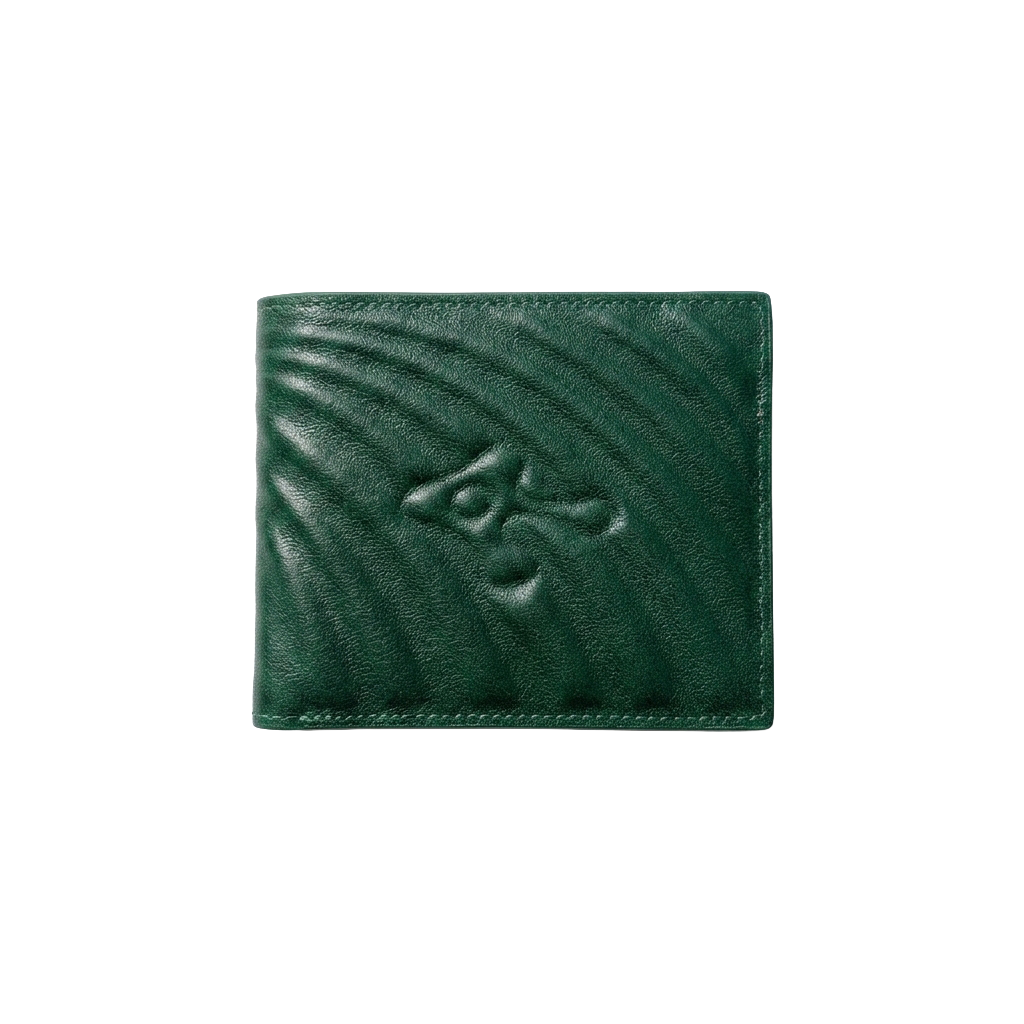
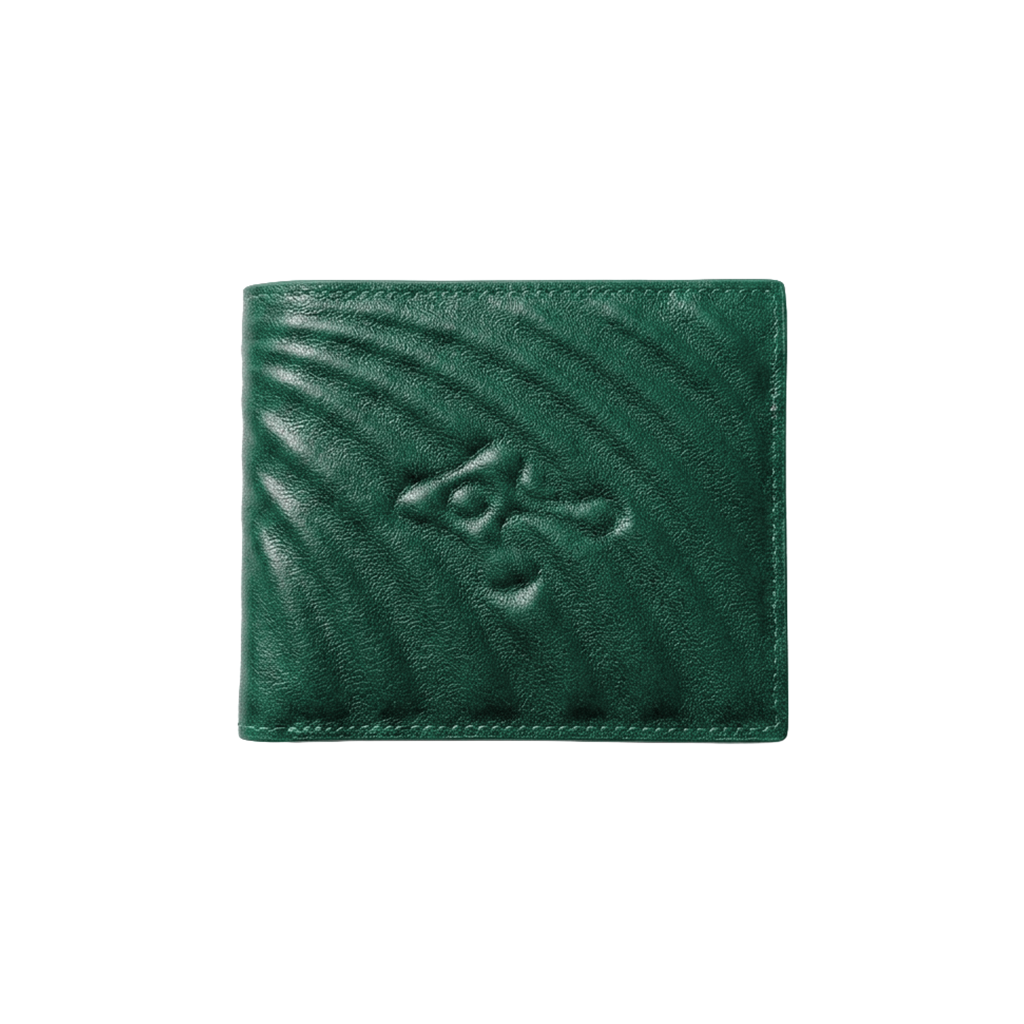
Revert homepage to Ark Wallet product page at $64; update wallet images
- Replace pre-launch countdown with image-left/text-right product layout
- Rename to Ark Wallet, price $64 wired to the $64 Stripe payment link
- Swap in new closed/open wallet photos (wallet-sand.png / wallet-open.png)
- Update product description copy

Changed region(s): [[0.2188, 0.25, 0.7812, 0.75]]

diff --git a/index.html b/index.html
@@ -4,44 +4,44 @@
 <meta charset="UTF-8">
 <meta name="viewport" content="width=device-width, initial-scale=1">
 <title>RAVISAUCE — Ark Wallet</title>
-<meta name="description" content="Emerald Green Bifold Wallet · Embossed Ark Shell Pattern · Top Grain Cowhide Leather">
 <link rel="icon" href="ravi-logo.png">
 <style>
 :root{
   --paper:#FFFFFF;
   --ink:#000000;
   --ink-2:#5a5a5a;
-  --ink-3:#9a9a9a;
   --emerald:#0F5C45;
   --rule:rgba(0,0,0,.18);
 }
 *{margin:0;padding:0;box-sizing:border-box}
 html,body{height:100%;background:var(--paper);color:var(--ink);font-family:'Helvetica Neue','Helvetica','Arial',sans-serif;-webkit-font-smoothing:antialiased;overflow:hidden;letter-spacing:-.005em}
 
-/* frame — scales with viewport width on wide displays */
-.frame{position:relative;height:100vh;height:100dvh;display:grid;grid-template-rows:auto 1fr;padding:clamp(18px,2vw,44px) clamp(28px,3.2vw,80px) clamp(20px,2.4vw,52px);gap:clamp(8px,1.4vw,28px)}
+/* frame */
+.frame{position:relative;height:100vh;height:100dvh;display:grid;grid-template-rows:auto 1fr;padding:clamp(18px,2.6vh,28px) clamp(28px,4vw,56px) clamp(20px,3vh,32px);gap:clamp(8px,1.6vh,20px)}
 
 /* top */
 .top{display:flex;justify-content:flex-end;align-items:center;gap:clamp(20px,2vw,40px)}
-.top .help{font-size:clamp(11px,0.78vw,17px);letter-spacing:.16em;text-transform:uppercase;color:var(--ink);text-decoration:none;font-weight:500;position:relative;padding:4px 0;transition:color .25s}
+.top .help{font-size:11px;letter-spacing:.16em;text-transform:uppercase;color:var(--ink);text-decoration:none;font-weight:500;position:relative;padding:4px 0;transition:color .25s}
 .top .help::after{content:'';position:absolute;left:0;bottom:0;height:1px;width:0;background:var(--emerald);transition:width .45s cubic-bezier(.65,0,.35,1)}
 .top .help:hover{color:var(--emerald)}
 .top .help:hover::after{width:100%}
 
-/* hero — centered single column */
-.hero{display:flex;flex-direction:column;align-items:center;justify-content:center;gap:clamp(24px,3.6vw,84px);min-height:0;overflow:visible;text-align:center}
+/* hero */
+.hero{display:grid;grid-template-columns:1.15fr .85fr;align-items:center;gap:clamp(28px,5vw,72px);min-height:0;overflow:hidden}
 
-/* wallet */
-.stage{position:relative;display:flex;align-items:center;justify-content:center;min-height:0;overflow:visible}
-.wallet-wrap{position:relative;display:block;line-height:0;cursor:pointer}
-.wallet{width:auto;max-width:min(100%,1000px);max-height:min(72vh,55vw);height:auto;display:block;user-select:none;-webkit-user-drag:none}
+.stage{position:relative;display:flex;align-items:center;justify-content:center;min-height:0;height:100%;overflow:visible}
+.wallet-wrap{position:relative;display:block;line-height:0;max-width:100%;max-height:100%;cursor:pointer}
+.wallet{width:auto;max-width:100%;max-height:min(94vh,55vw);height:auto;display:block;
+  user-select:none;-webkit-user-drag:none;
+}
+.wallet-wrap{cursor:pointer}
 .wallet-base{position:relative;z-index:1}
 .wallet-hover{position:absolute;inset:0;width:100%;height:100%;object-fit:contain;visibility:hidden;z-index:2;pointer-events:none}
 .wallet-wrap.flipped .wallet-base{visibility:hidden}
 .wallet-wrap.flipped .wallet-hover{visibility:visible}
-.wallet-hint{position:absolute;left:50%;bottom:6%;transform:translateX(-50%);z-index:3;pointer-events:none;
-  font-size:clamp(10.5px,0.72vw,15px);letter-spacing:.22em;text-transform:uppercase;font-weight:500;
-  color:var(--paper);background:rgba(0,0,0,.78);padding:clamp(9px,0.65vw,14px) clamp(16px,1.1vw,24px);border-radius:999px;
+.wallet-hint{position:absolute;left:50%;bottom:8%;transform:translateX(-50%);z-index:3;pointer-events:none;
+  font-size:10.5px;letter-spacing:.22em;text-transform:uppercase;font-weight:500;
+  color:var(--paper);background:rgba(0,0,0,.78);padding:9px 16px;border-radius:999px;
   white-space:nowrap;opacity:0;transition:opacity .25s ease, transform .35s cubic-bezier(.2,.8,.2,1);
 }
 .wallet-hint::after{content:'Click to open'}
@@ -49,37 +49,39 @@ html,body{height:100%;background:var(--paper);color:var(--ink);font-family:'Helv
 .wallet-wrap:hover .wallet-hint{opacity:1;transform:translateX(-50%) translateY(-4px)}
 @media (hover:none){.wallet-hint{display:none}}
 
-/* countdown block */
-.drop{display:flex;flex-direction:column;align-items:center;gap:clamp(12px,1.4vw,28px)}
-.tagline{font-size:clamp(11px,0.82vw,16px);letter-spacing:.18em;text-transform:uppercase;color:var(--ink-2);font-weight:500;max-width:90vw;line-height:1.6}
-.drop-label{font-size:clamp(11px,0.85vw,18px);letter-spacing:.28em;text-transform:uppercase;color:var(--ink);font-weight:500}
-.drop-label .em{color:var(--emerald)}
+/* product column */
+.product{display:flex;flex-direction:column;align-items:flex-start;gap:clamp(14px,2vh,22px);max-width:440px;text-align:left;width:100%}
 
-.countdown{display:flex;align-items:baseline;gap:clamp(14px,2.2vw,48px);font-variant-numeric:tabular-nums}
-.cd-unit{display:flex;flex-direction:column;align-items:center;gap:clamp(6px,0.5vw,12px);min-width:clamp(48px,6.4vw,128px)}
-.cd-value{font-size:clamp(40px,5.4vw,128px);font-weight:500;line-height:1;letter-spacing:-.02em;color:var(--ink)}
-.cd-label{font-size:clamp(9.5px,0.7vw,15px);letter-spacing:.22em;text-transform:uppercase;color:var(--ink-2);font-weight:500}
-.cd-sep{font-size:clamp(32px,4.4vw,92px);font-weight:300;color:var(--ink-3);line-height:1;align-self:flex-start;margin-top:clamp(6px,0.4vw,10px)}
+.kicker{font-size:11px;letter-spacing:.16em;text-transform:uppercase;color:var(--ink);font-weight:500}
 
-.drop-done{display:none;flex-direction:column;align-items:center;gap:clamp(14px,1.4vw,24px)}
-.drop-done .live{font-size:clamp(14px,1vw,20px);letter-spacing:.28em;text-transform:uppercase;color:var(--emerald);font-weight:500}
-.drop.expired .countdown,.drop.expired .drop-label{display:none}
-.drop.expired .drop-done{display:flex}
+.title{font-size:clamp(40px,5.4vh,58px);line-height:1.02;letter-spacing:-.028em;font-weight:500;color:var(--ink)}
 
-.buy{display:inline-flex;align-items:center;justify-content:center;gap:14px;
-  padding:clamp(16px,1.4vw,24px) clamp(48px,4.4vw,80px);background:var(--emerald);color:var(--paper);
-  font-size:clamp(12px,0.85vw,16px);letter-spacing:.16em;text-transform:uppercase;font-weight:500;
+.lede{font-size:clamp(14px,1.7vh,16px);line-height:1.45;color:var(--ink-2);max-width:36ch;font-weight:400}
+@media (max-height:660px){.lede{display:none}}
+
+/* cta */
+.cta{display:flex;flex-direction:column;align-items:flex-start;gap:clamp(14px,1.8vh,18px);width:100%;max-width:440px;margin-top:clamp(6px,1vh,12px)}
+
+.price-row{position:relative;display:flex;align-items:flex-end;justify-content:flex-start;gap:clamp(20px,3vw,32px);width:100%;padding-top:clamp(14px,2vh,20px)}
+.price-row::before{content:'';position:absolute;top:0;left:0;width:280px;height:1px;background:var(--rule)}
+
+.price{font-size:clamp(32px,4.4vh,44px);font-weight:500;line-height:.95;letter-spacing:-.025em;color:var(--ink)}
+
+.buy{display:flex;align-self:flex-start;align-items:center;justify-content:center;gap:14px;width:280px;
+  padding:clamp(16px,2.2vh,20px) 0;background:var(--emerald);color:var(--paper);
+  font-size:12px;letter-spacing:.12em;text-transform:uppercase;font-weight:500;
   text-decoration:none;border:none;cursor:pointer;position:relative;overflow:hidden;
   transition:transform .25s cubic-bezier(.2,.8,.2,1);
 }
 .buy::before{content:'';position:absolute;inset:0;background:var(--ink);transform:translateX(-101%);transition:transform .55s cubic-bezier(.65,0,.35,1);z-index:0}
-.buy:hover{transform:translateY(-2px)}
 .buy:hover::before{transform:translateX(0)}
 .buy>*{position:relative;z-index:1}
+.buy .arrow{transition:transform .35s}
+.buy:hover .arrow{transform:translateX(6px)}
 
 /* reveal */
 .r{opacity:0;transform:translateY(14px);animation:rise .9s cubic-bezier(.2,.8,.2,1) forwards}
-.d1{animation-delay:.10s}.d2{animation-delay:.32s}.d3{animation-delay:.55s}.d4{animation-delay:.82s}
+.d1{animation-delay:.10s}.d2{animation-delay:.32s}.d3{animation-delay:.55s}.d4{animation-delay:.82s}.d5{animation-delay:1.08s}.d6{animation-delay:1.32s}.d7{animation-delay:1.58s}
 @keyframes rise{to{opacity:1;transform:translateY(0)}}
 .stage .wallet{opacity:0;transform:translateY(24px) scale(.97);animation:walletRise 1.4s cubic-bezier(.2,.8,.2,1) .25s forwards}
 @keyframes walletRise{to{opacity:1;transform:translateY(0) scale(1)}}
@@ -87,15 +89,22 @@ html,body{height:100%;background:var(--paper);color:var(--ink);font-family:'Helv
 /* responsive */
 @media (max-width:820px){
   html,body{overflow:auto;height:auto;min-height:100%}
-  .frame{display:flex;flex-direction:column;height:auto;min-height:100dvh;padding:14px 22px 24px;gap:18px}
+  .frame{display:flex;flex-direction:column;height:auto;min-height:100dvh;padding:12px 22px 24px;gap:16px}
   .top{order:3;margin-top:auto;justify-content:center;padding-top:24px;border-top:1px solid var(--rule)}
   .top .help{font-size:12px;letter-spacing:.18em}
-  .hero{order:2;gap:clamp(20px,3vh,32px)}
-  .stage{width:100%}
-  .wallet{max-height:min(64vh,96vw);max-width:96vw}
-  .countdown{gap:14px}
-  .cd-unit{min-width:54px}
-  .cd-sep{font-size:36px}
+  .hero{order:2;grid-template-columns:1fr;gap:clamp(18px,2.6vh,28px);text-align:center;align-items:start}
+  .stage{order:1;width:100%;min-height:auto}
+  .product{order:2;align-items:center;text-align:center;margin:0 auto;gap:14px;max-width:none;width:100%}
+  .lede{max-width:36ch;margin:0 auto}
+  .cta{align-items:center;max-width:none;width:100%;margin:0 auto;gap:14px}
+  .price-row{justify-content:center;width:100%;padding-top:18px}
+  .price-row::before{width:100%;left:0}
+  .buy{width:100%;align-self:stretch;padding:20px 24px;font-size:13px;letter-spacing:.16em}
+  .wallet{max-height:min(56vh,88vw);max-width:90vw}
+}
+@media (max-height:620px) and (min-width:821px){
+  .lede{display:none}
+  .wallet{max-height:42vh}
 }
 </style>
 </head>
@@ -112,30 +121,29 @@ html,body{height:100%;background:var(--paper);color:var(--ink);font-family:'Helv
 
     <div class="stage">
       <div class="wallet-wrap" id="wallet-wrap" role="button" tabindex="0" aria-label="Click to open wallet">
-        <img class="wallet wallet-base" src="wallet-sand.png" alt="Emerald Green Bifold Wallet · Embossed Ark Shell Pattern · Top Grain Cowhide Leather">
+        <img class="wallet wallet-base" src="wallet-sand.png" alt="RAVISAUCE Shell bifold wallet — emerald, top grain leather, embossed scallop pattern">
         <img class="wallet wallet-hover" src="wallet-open.png" alt="" aria-hidden="true">
         <span class="wallet-hint" aria-hidden="true"></span>
       </div>
     </div>
 
-    <div class="drop r d3">
-      <div class="tagline r d2">Emerald Green Bifold Wallet · Embossed Ark Shell Pattern · Top Grain Cowhide Leather</div>
-      <div class="drop-label r d3">Ark Wallet drops <span class="em">Sunday, June 14 · 3:00 PM EST</span></div>
-      <div class="countdown" id="countdown" aria-live="polite">
-        <div class="cd-unit"><span class="cd-value" data-unit="d">00</span><span class="cd-label">Days</span></div>
-        <span class="cd-sep">:</span>
-        <div class="cd-unit"><span class="cd-value" data-unit="h">00</span><span class="cd-label">Hours</span></div>
-        <span class="cd-sep">:</span>
-        <div class="cd-unit"><span class="cd-value" data-unit="m">00</span><span class="cd-label">Minutes</span></div>
-        <span class="cd-sep">:</span>
-        <div class="cd-unit"><span class="cd-value" data-unit="s">00</span><span class="cd-label">Seconds</span></div>
-      </div>
-      <div class="drop-done">
-        <span class="live">It's live</span>
-        <a href="https://buy.stripe.com/eVq7sN86E916eBg1bl7ok05" class="buy" aria-label="Buy the Ark Wallet for $64">
-          <span>Buy now · $64</span>
+    <div class="product">
+
+      <span class="kicker r d2">Hand-embossed bifold</span>
+
+      <h1 class="title r d3">Ark Wallet</h1>
+
+      <p class="lede r d4">High quality top grain cowhide leather. Handmade and embossed with the radiating ridges of an ark shell. Now go to the beach and look at some cool shells!</p>
+
+      <div class="cta">
+        <div class="price-row r d5">
+          <div class="price">$64</div>
+        </div>
+        <a href="https://buy.stripe.com/eVq7sN86E916eBg1bl7ok05" class="buy r d6" aria-label="Buy Ark Wallet for $64">
+          <span>Buy now</span>
         </a>
       </div>
+
     </div>
 
   </section>
@@ -153,31 +161,6 @@ html,body{height:100%;background:var(--paper);color:var(--ink);font-family:'Helv
     wrap.addEventListener('keydown', e => {
       if (e.key === 'Enter' || e.key === ' ') { e.preventDefault(); toggle(); }
     });
-
-    // Drop: Sunday June 14, 2026 at 3pm Eastern (EDT, UTC-4 in June)
-    const DROP = new Date('2026-06-14T15:00:00-04:00').getTime();
-    const drop = document.querySelector('.drop');
-    const elD = drop.querySelector('[data-unit=d]');
-    const elH = drop.querySelector('[data-unit=h]');
-    const elM = drop.querySelector('[data-unit=m]');
-    const elS = drop.querySelector('[data-unit=s]');
-    const pad = n => String(Math.max(0, n)).padStart(2, '0');
-
-    const tick = () => {
-      const ms = DROP - Date.now();
-      if (ms <= 0) {
-        drop.classList.add('expired');
-        elD.textContent = elH.textContent = elM.textContent = elS.textContent = '00';
-        return;
-      }
-      const s = Math.floor(ms / 1000);
-      elD.textContent = pad(Math.floor(s / 86400));
-      elH.textContent = pad(Math.floor((s % 86400) / 3600));
-      elM.textContent = pad(Math.floor((s % 3600) / 60));
-      elS.textContent = pad(s % 60);
-    };
-    tick();
-    setInterval(tick, 1000);
   })();
 </script>
 
